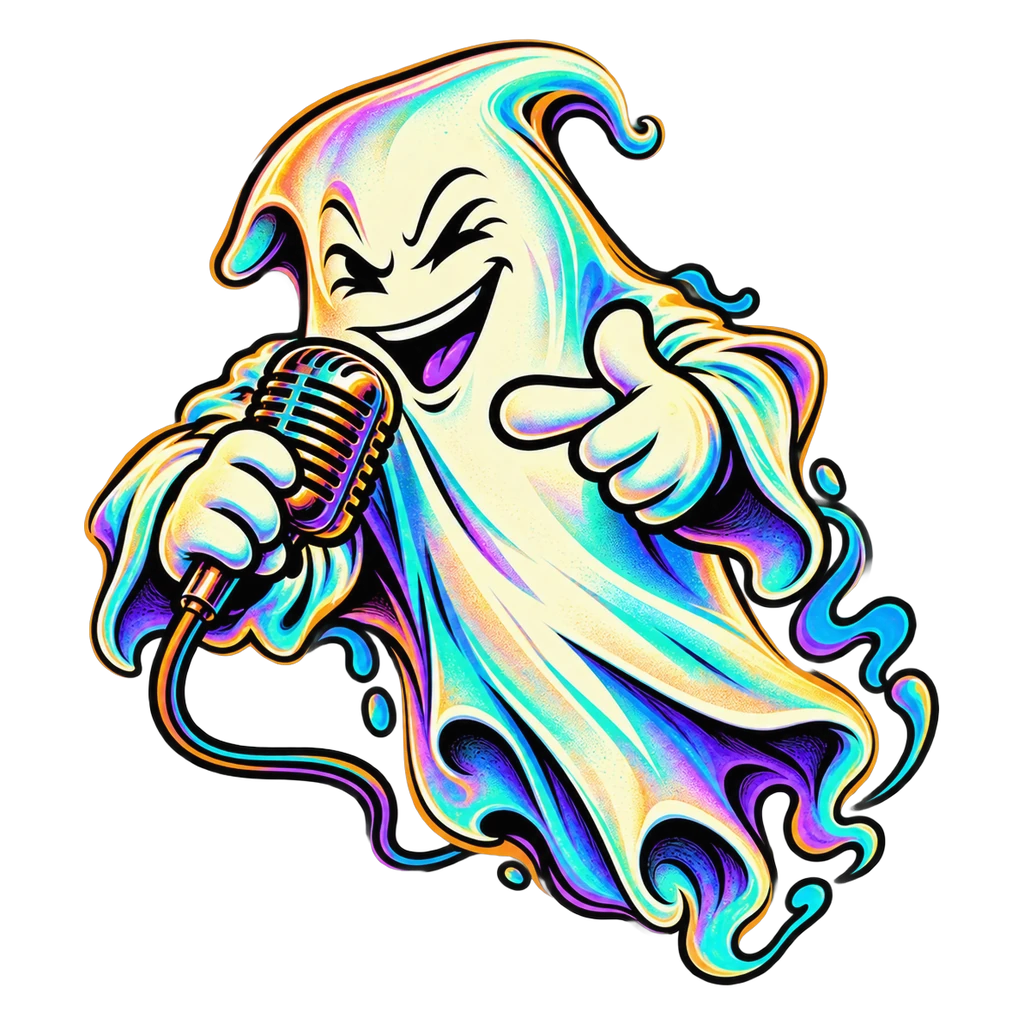
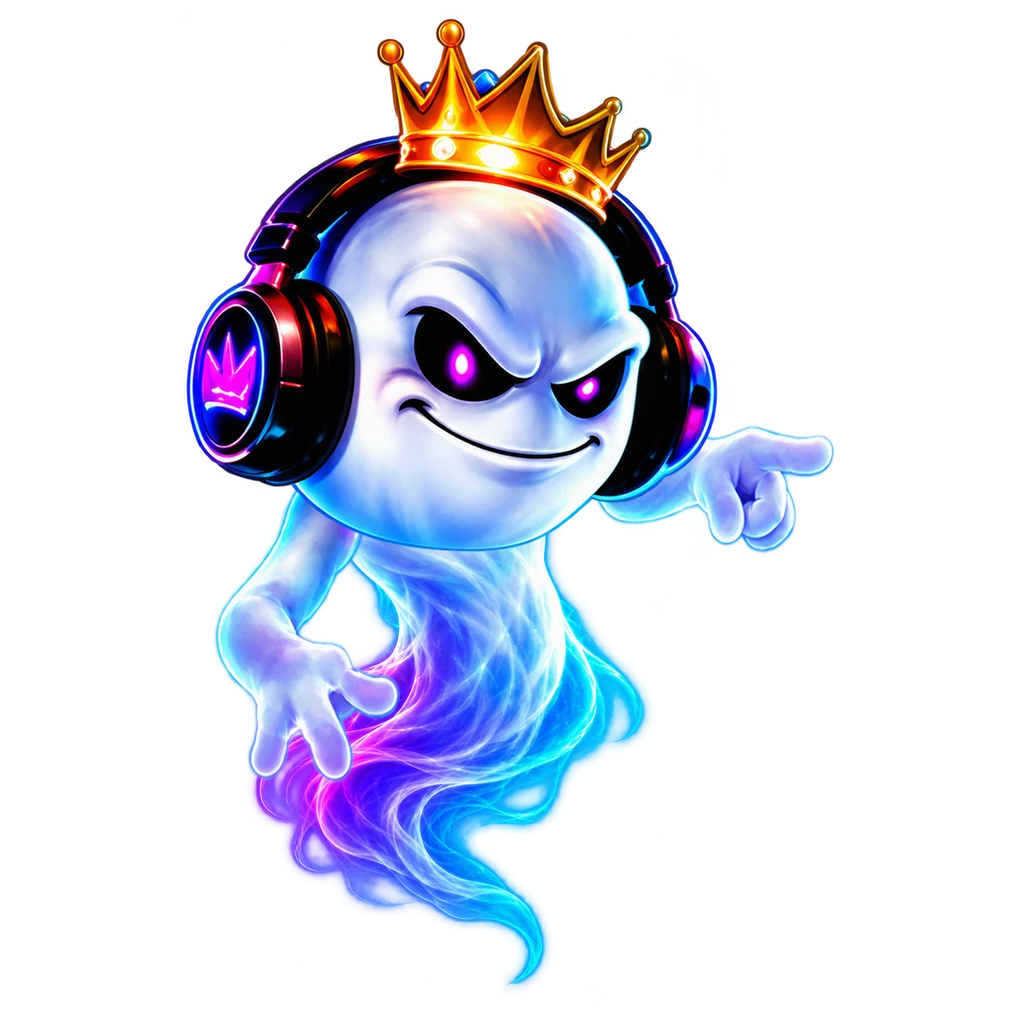
The crown-and-headphones Ghost is the mascot, with live lip sync
Chris's approved Ghost (crown, headphones, from the Cinema 4D handoff parts)
replaces the old mascot art everywhere. Four whole-Ghost mouth pictures
(closed, small, wide, round) swap by the --talk level of the line he is
saying, from the same measured clip data (phone clips today; desktop once the
new voice is recorded). Fingertip, silhouette and tail anchors re-measured;
the desktop demo puts his fingertip on the pointer.

diff --git a/src/components/GhostRiderMascot/GhostRiderMascot.jsx b/src/components/GhostRiderMascot/GhostRiderMascot.jsx
@@ -2,6 +2,12 @@ import React, { useEffect, useRef, useState } from 'react';
 import art512 from '../../assets/mascot/ghost-rider-512.webp';
 import art256 from '../../assets/mascot/ghost-rider-256.webp';
 import art128 from '../../assets/mascot/ghost-rider-128.png';
+import m512 from '../../assets/mascot/ghost-rider-512-m1.webp';
+import m512b from '../../assets/mascot/ghost-rider-512-m2.webp';
+import m512c from '../../assets/mascot/ghost-rider-512-m3.webp';
+import m256 from '../../assets/mascot/ghost-rider-256-m1.webp';
+import m256b from '../../assets/mascot/ghost-rider-256-m2.webp';
+import m256c from '../../assets/mascot/ghost-rider-256-m3.webp';
 import './GhostRiderMascot.css';
 
 /**
@@ -37,10 +43,15 @@ import './GhostRiderMascot.css';
 
 // Where things are on the art, as a share of the square it is framed in.
 export const MASCOT = {
-  mic: [0.31, 0.40],        // the mic grille
-  finger: [0.49, 0.39],     // the pointing fingertip
-  tail: [0.70, 0.93],       // the bottom of his robe: where he "stands" when pointing from above
+  finger: [0.813, 0.436],   // the pointing fingertip
+  tail: [0.496, 0.961],     // the bottom of him, where he fades out
+  outline: [[139, 6], [169, 13], [202, 40], [260, 140], [162, 307], [93, 271], [81, 253], [58, 125], [64, 97], [118, 14]], // his silhouette in a 320 px square
 };
+// The crown-and-headphones Ghost (Chris's approved art; parts from the Cinema 4D
+// handoff). He points right, like the old art, so figureAt() and GhostHand still
+// hang him up-left of the pointer. Four mouths (closed, small, wide, round) are
+// whole-Ghost pictures swapped by --talk; the first is the base art.
+const MOUTHS = { 512: [m512, m512b, m512c], 256: [m256, m256b, m256c] };
 
 const FPS = 25;
 const loaders = {
@@ -92,12 +103,14 @@ export default function GhostRiderMascot({
       }
       talk += (want - talk) * 0.35;
       rootRef.current?.style.setProperty('--talk', talk.toFixed(3));
+      if (rootRef.current) rootRef.current.dataset.mouth = String(Math.min(3, Math.round(talk * 3)));
     };
     raf = requestAnimationFrame(frame);
     return () => { dead = true; cancelAnimationFrame(raf); };
   }, [Boolean(speech), kind, still]);
 
   const src = variant === 'header' ? art128 : (variant === 'card' || variant === 'report') ? art256 : art512;
+  const mouths = speech ? MOUTHS[src === art256 ? 256 : 512] : null;
   const tap = (e) => {
     if (interactive && !still) setTapped((n) => n + 1);
     onClick?.(e);
@@ -122,7 +135,9 @@ export default function GhostRiderMascot({
         <span key={`${state}-${tapped}`} className={`grm-act${tapped ? ' is-tapped' : ''}`}>
           <img className="grm-glow" src={src} alt="" draggable="false" decoding="async" />
           <img className="grm-art" src={src} alt="" draggable="false" decoding="async" />
-          <span className="grm-mic" style={{ left: `${MASCOT.mic[0] * 100}%`, top: `${MASCOT.mic[1] * 100}%` }} />
+          {mouths && mouths.map((m, i) => (
+            <img key={i} className={`grm-art grm-mouth grm-m${i + 1}`} src={m} alt="" draggable="false" decoding="async" />
+          ))}
           {state === 'analyzing' && !still && (
             <span className="grm-sparks">{[0, 1, 2, 3, 4, 5].map((i) => <i key={i} style={{ '--i': i }} />)}</span>
           )}

diff --git a/src/components/Onboarding/GhostDemo.jsx b/src/components/Onboarding/GhostDemo.jsx
@@ -19,7 +19,7 @@ import { holdBannerClosed } from '../../services/ghostBanner.js';
 // marketing/ghost-logo-full.png).
 // Chris, 2026-10-28: and now the new neon Ghost Rider mascot (GhostRiderMascot),
 // everywhere, the Ask-the-Ghost hand included.
-import GhostRiderMascot from '../GhostRiderMascot/GhostRiderMascot.jsx';
+import GhostRiderMascot, { MASCOT } from '../GhostRiderMascot/GhostRiderMascot.jsx';
 import './GhostDemo.css';
 
 /** The phone build. App.jsx puts this class on <body>; the phone CSS hangs off it too. */
@@ -156,12 +156,16 @@ function freeBand() {
  * always knows where he is.
  */
 function figureAt(tx, ty) {
-  const size = onPhone() ? 80 : 112;
-  const below = ty - (size + 10) < freeBand().top + 6;
-  const flip = tx - size + 16 < 4;
-  const left = flip ? tx + 14 : tx - size + 16;
-  const top = below ? ty + 30 : ty - size - 6;
-  return { size, below, flip, left, top, right: left + size, bottom: top + size + 6 };
+  // His fingertip sits on the pointer; his body hangs to the left of it (mirrored
+  // to the right when the left edge would cut him off).
+  const size = onPhone() ? 110 : 150;
+  const [fx, fy] = MASCOT.finger;
+  const flip = tx - fx * size < 4;
+  const left = flip ? tx - (1 - fx) * size : tx - fx * size;
+  const rawTop = ty - fy * size;
+  const below = rawTop + size * 0.06 < freeBand().top + 6;
+  const top = below ? freeBand().top + 6 - size * 0.06 : rawTop;
+  return { size, below, flip, left, top, right: left + size, bottom: top + size };
 }
 
 /** Keep a centred bubble clear of the bar. */

diff --git a/src/components/Ghost/GhostHand.jsx b/src/components/Ghost/GhostHand.jsx
@@ -2,6 +2,7 @@ import React, { useEffect, useState } from 'react';
 import { subscribeHand, readHand } from '../../services/ghostCursor.js';
 import { subscribeTeach, teachState } from '../../services/ghostTeach.js';
 import ghostSprite from '../../assets/mascot/ghost-rider-256.webp';
+import { MASCOT } from '../GhostRiderMascot/GhostRiderMascot.jsx';
 import './GhostHand.css';
 
 /**
@@ -30,8 +31,7 @@ import './GhostHand.css';
  */
 
 // Where the fingertip is in the art, as a fraction of the square image.
-const TIP_X = 0.49;   // the new mascot's pointing fingertip (MASCOT.finger)
-const TIP_Y = 0.39;
+const [TIP_X, TIP_Y] = MASCOT.finger;
 const SIZE = 130;
 
 /**
@@ -44,7 +44,7 @@ const SIZE = 130;
  *
  * The art's outline, in its own 320px square, from its opaque pixels.
  */
-const OUTLINE = [[26, 161], [82, 45], [104, 28], [138, 16], [171, 12], [183, 16], [206, 37], [286, 193], [293, 224], [275, 268], [231, 307], [122, 271], [56, 236], [26, 166]];
+const OUTLINE = MASCOT.outline;
 const TURNS = [0, -15, 15, -30, 30, -45, 45, -60];
 const EDGE = 4;
 
@@ -108,8 +108,8 @@ export default function GhostHand() {
   const turn = { transform: `rotate(${fit.deg}deg) scaleX(${fit.mirror ? -1 : 1})` };
 
   // The bubble sits above the Ghost's head and flips to stay on screen.
-  const headX = -SIZE * (TIP_X - 0.7) * (fit.mirror ? -1 : 1);
-  const headY = -SIZE * (TIP_Y - 0.2);
+  const headX = SIZE * (0.43 - TIP_X) * (fit.mirror ? -1 : 1);
+  const headY = SIZE * (0.25 - TIP_Y);
   const flipX = x < 330;
   const flipY = y < 190;
 

diff --git a/src/components/GhostRiderMascot/GhostRiderMascot.css b/src/components/GhostRiderMascot/GhostRiderMascot.css
@@ -57,6 +57,13 @@
 }
 .grm-header .grm-mic { display: none; }
 
+/* Lip sync: the four mouths sit over the base art; the one for the current
+   --talk level (data-mouth, set by the speech loop) is shown. 0 is the base. */
+.grm-mouth { opacity: 0; }
+.grm[data-mouth="1"] .grm-m1,
+.grm[data-mouth="2"] .grm-m2,
+.grm[data-mouth="3"] .grm-m3 { opacity: 1; }
+
 /* ---------- motion ---------- */
 .grm:not(.is-still) .grm-float { animation: grm-float 3.5s ease-in-out infinite; }
 .grm:not(.is-still) .grm-glow { animation: grm-rim 4.2s ease-in-out infinite; }
